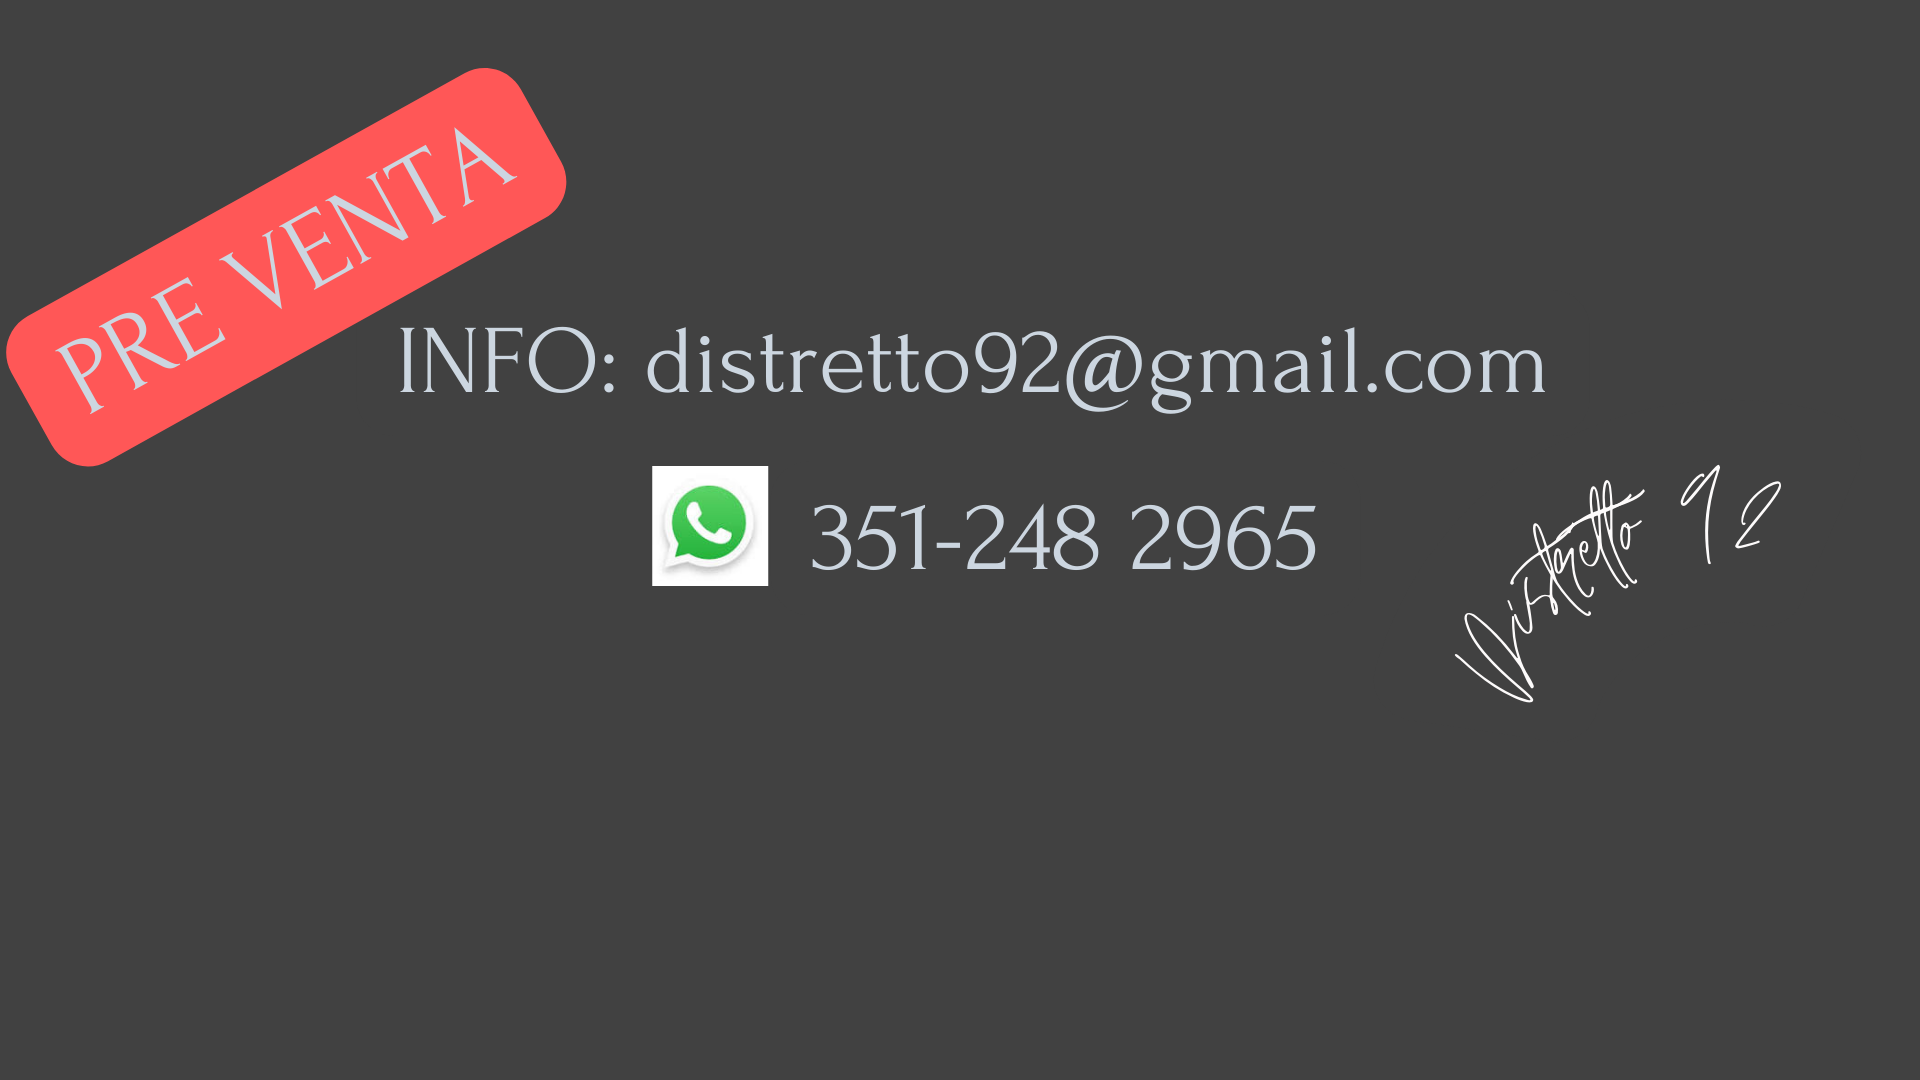
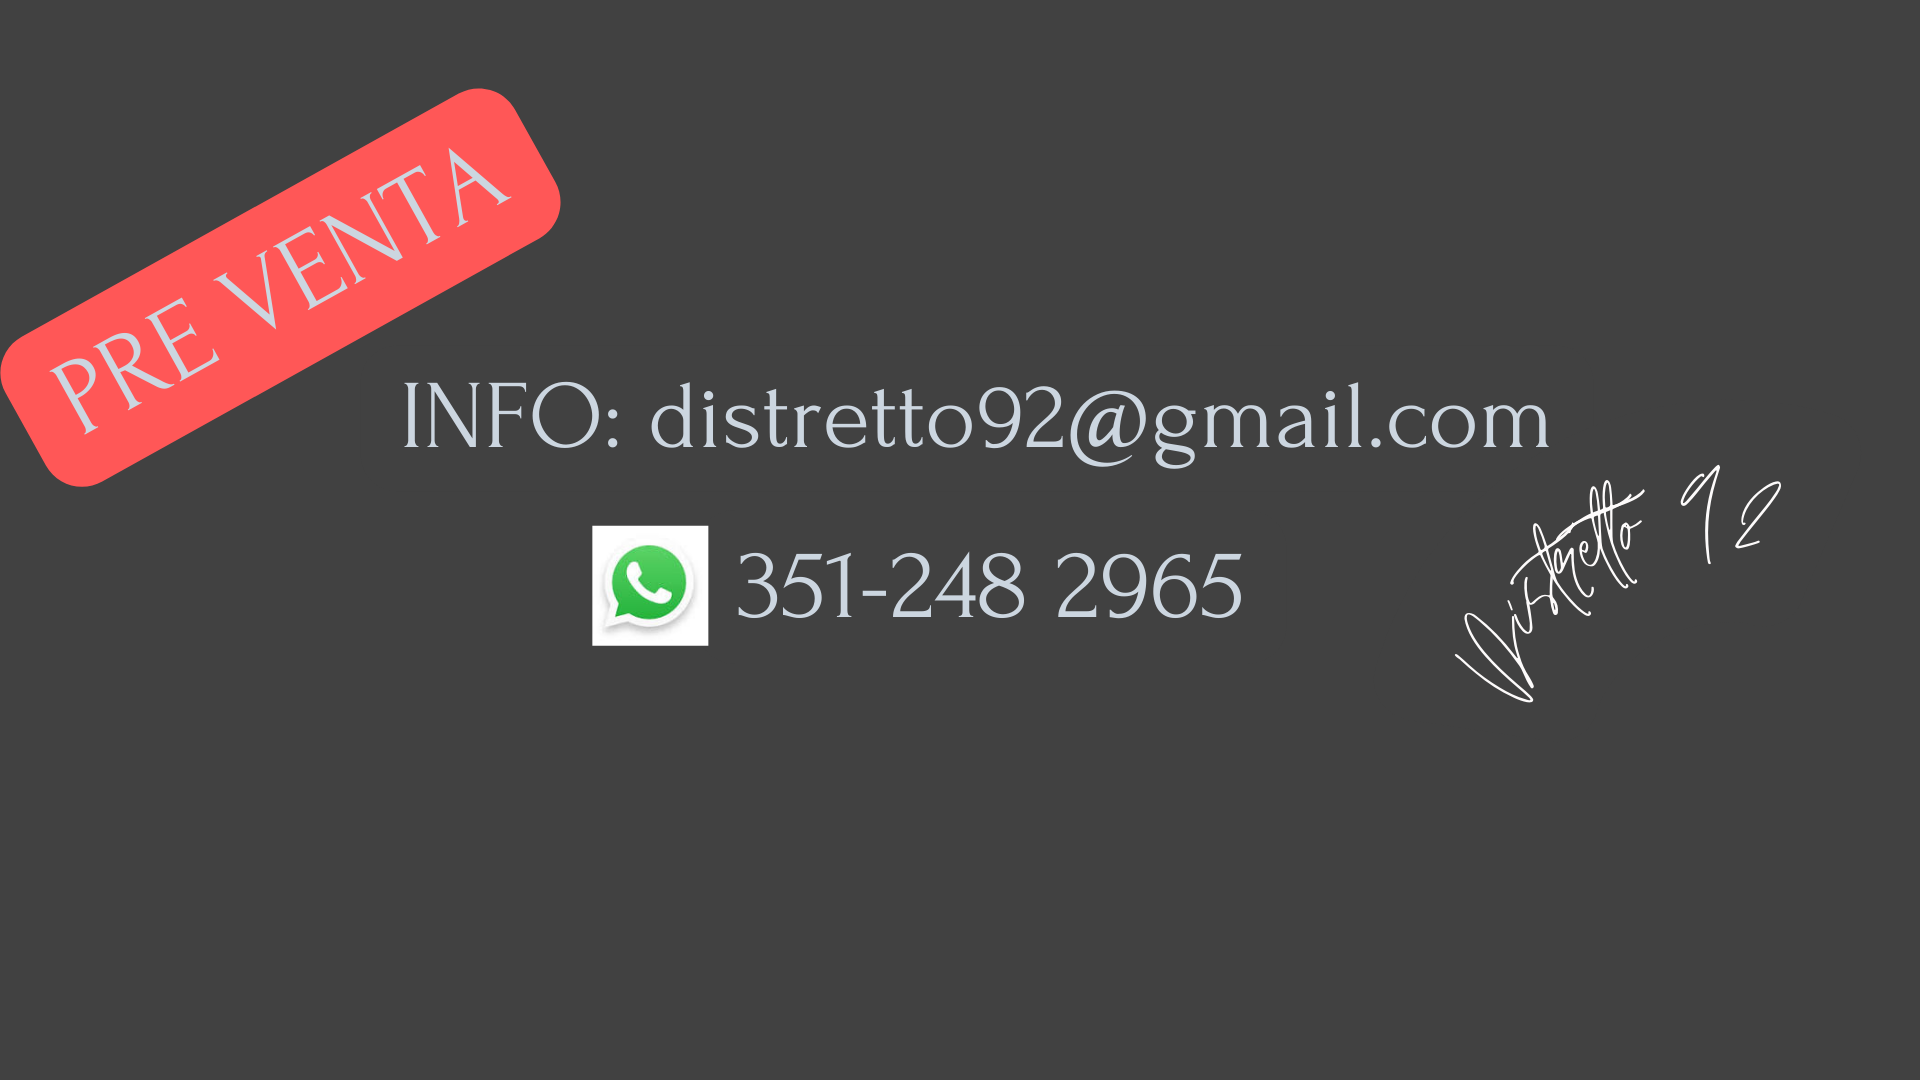
Se cambia imagen preventa, ajusta style de barra navegación y definición imagenes de carouse Index

Changed region(s): [[0.0, 0.0611, 0.8125, 0.6111], [0.0625, 0.3972, 0.0938, 0.4278], [0.0312, 0.4278, 0.0625, 0.4583]]

diff --git a/index.html b/index.html
@@ -13,11 +13,30 @@
     <link href="https://cdn.jsdelivr.net/npm/bootstrap@5.3.3/dist/css/bootstrap.min.css" rel="stylesheet" integrity="sha384-QWTKZyjpPEjISv5WaRU9OFeRpok6YctnYmDr5pNlyT2bRjXh0JMhjY6hW+ALEwIH" crossorigin="anonymous">
     <link rel="stylesheet" href="https://cdn.jsdelivr.net/npm/bootstrap-icons@1.11.3/font/bootstrap-icons.min.css">
     <script src="https://cdn.jsdelivr.net/npm/toastify-js/src/toastify.min.js"></script>
+        <style>
+      /* Estilos personalizados para la barra de navegación */
+      .navbar-custom {
+        padding-top: 1rem;
+        padding-bottom: 1rem;
+        font-size: 1.25rem; /* Tamaño de fuente más grande */
+        display: flex;
+        justify-content: center;
+      }
+      .navbar-custom .navbar-nav {
+        display: flex;
+        justify-content: center;
+        width: 100%;
+      }
+      .navbar-custom .navbar-brand {
+        flex-grow: 1;
+        text-align: center;
+      }
+    </style>
 </head>
 <body>
 
   <!-----------------------------  BARRA DE NAVEGACIÓN  -----------------------------> 
-  <nav class="navbar navbar-expand-sm navbar-dark bg-dark">
+  <nav class="navbar navbar-expand-sm navbar-dark bg-dark navbar-custom">
     <div class="container">
       <a class="navbar-brand text-uppercase" href="index.html"><i class="bi bi-house"></i> DISTRETTO 92</a>
 
@@ -103,22 +122,22 @@
         <h6 class="display-6 fw-bold lh-1 text-body-emphasis">Descubre Más</h6>
         <p class="lead pt-3">Te invitamos a explorar nuestra página y conocer más sobre las oportunidades que DISTRETTO 92 tiene para ofrecer. Conéctate con nosotros y descubre cómo podemos ser la base de tu próximo gran proyecto, ya sea comercial o residencial.</p>
         
-        <div id="carouselExampleCaptions" class="carousel slide" data-bs-ride=carousel>
+        <div id="carouselExampleCaptions" class="carousel slide" data-bs-ride="carousel">
           <div class="carousel-indicators">
             <button type="button" data-bs-target="#carouselExampleCaptions" data-bs-slide-to="0" class="active" aria-current="true" aria-label="Slide 1"></button>
             <button type="button" data-bs-target="#carouselExampleCaptions" data-bs-slide-to="1" aria-label="Slide 2"></button>
           </div>
           <div class="carousel-inner">
-            <div class="carousel-item active ">
-              <img src="./imagenes/Planimetria.JPG" class="d-block w-100 element-img" alt="Planimetría">
+            <div class="carousel-item active">
+              <img src="./imagenes/Planimetria.JPG" srcset="./imagenes/Planimetria@2x.JPG 2x, ./imagenes/Planimetria@3x.JPG 3x" class="d-block w-100" alt="Planimetría">
               <div class="carousel-caption top-1">
                 <h5 class="fw-bold text-uppercase">Planimetría</h5>
                 <p class="fs-5 mt-4 text-uppercase">Sobre Ruta 9 y Ruta 2</p>
               </div>
             </div>
 
-            <div class="carousel-item element-item">
-              <img src="./imagenes/PREVENTA INFO.png" class="d-block w-100 element-img" alt="Ubicación">
+            <div class="carousel-item">
+              <img src="./imagenes/PREVENTA INFO.png" srcset="./imagenes/PREVENTA INFO@2x.png 2x, ./imagenes/PREVENTA INFO@3x.png 3x" class="d-block w-100" alt="Ubicación" style="height: 55vh; object-fit: cover;">
             </div>
 
           </div>
@@ -177,7 +196,7 @@
     <!-----------------------------  FOOTER  ----------------------------->
     <footer class="bg-dark py-5 mt-5">
       <div class="container text-light text-center">
-        <p class="display-6 mb-3">Roxana Marchetto, Yesica Sofra, Daniela Bravo y Carlos Ventura</p>
+        <p class="display-6 mb-3">Carlos Ventura, Daniela Bravo, Yesica Sofra y Roxana Marchetto </p>
         <form class="bg-dark border border-0" action="https://docs.google.com/document/d/1bRDpudUOZR3-xtul88y6RzNgnsPcaT4Zqt9vqV-ePb0/edit#heading=h.irizlpdkye8p">
           <button class="btn btn-primary mt-3">Link a la pagina</button> 
         </form>

diff --git a/styles.css b/styles.css
@@ -76,3 +76,10 @@ textarea {
     font-size: 20px;
     box-sizing: border-box;
 }
+<style>
+      .carousel-inner img {
+        width: 100%;
+        height: 60vh; /* Ajusta la altura según sea necesario */
+        object-fit: cover;
+      }
+    </style>
